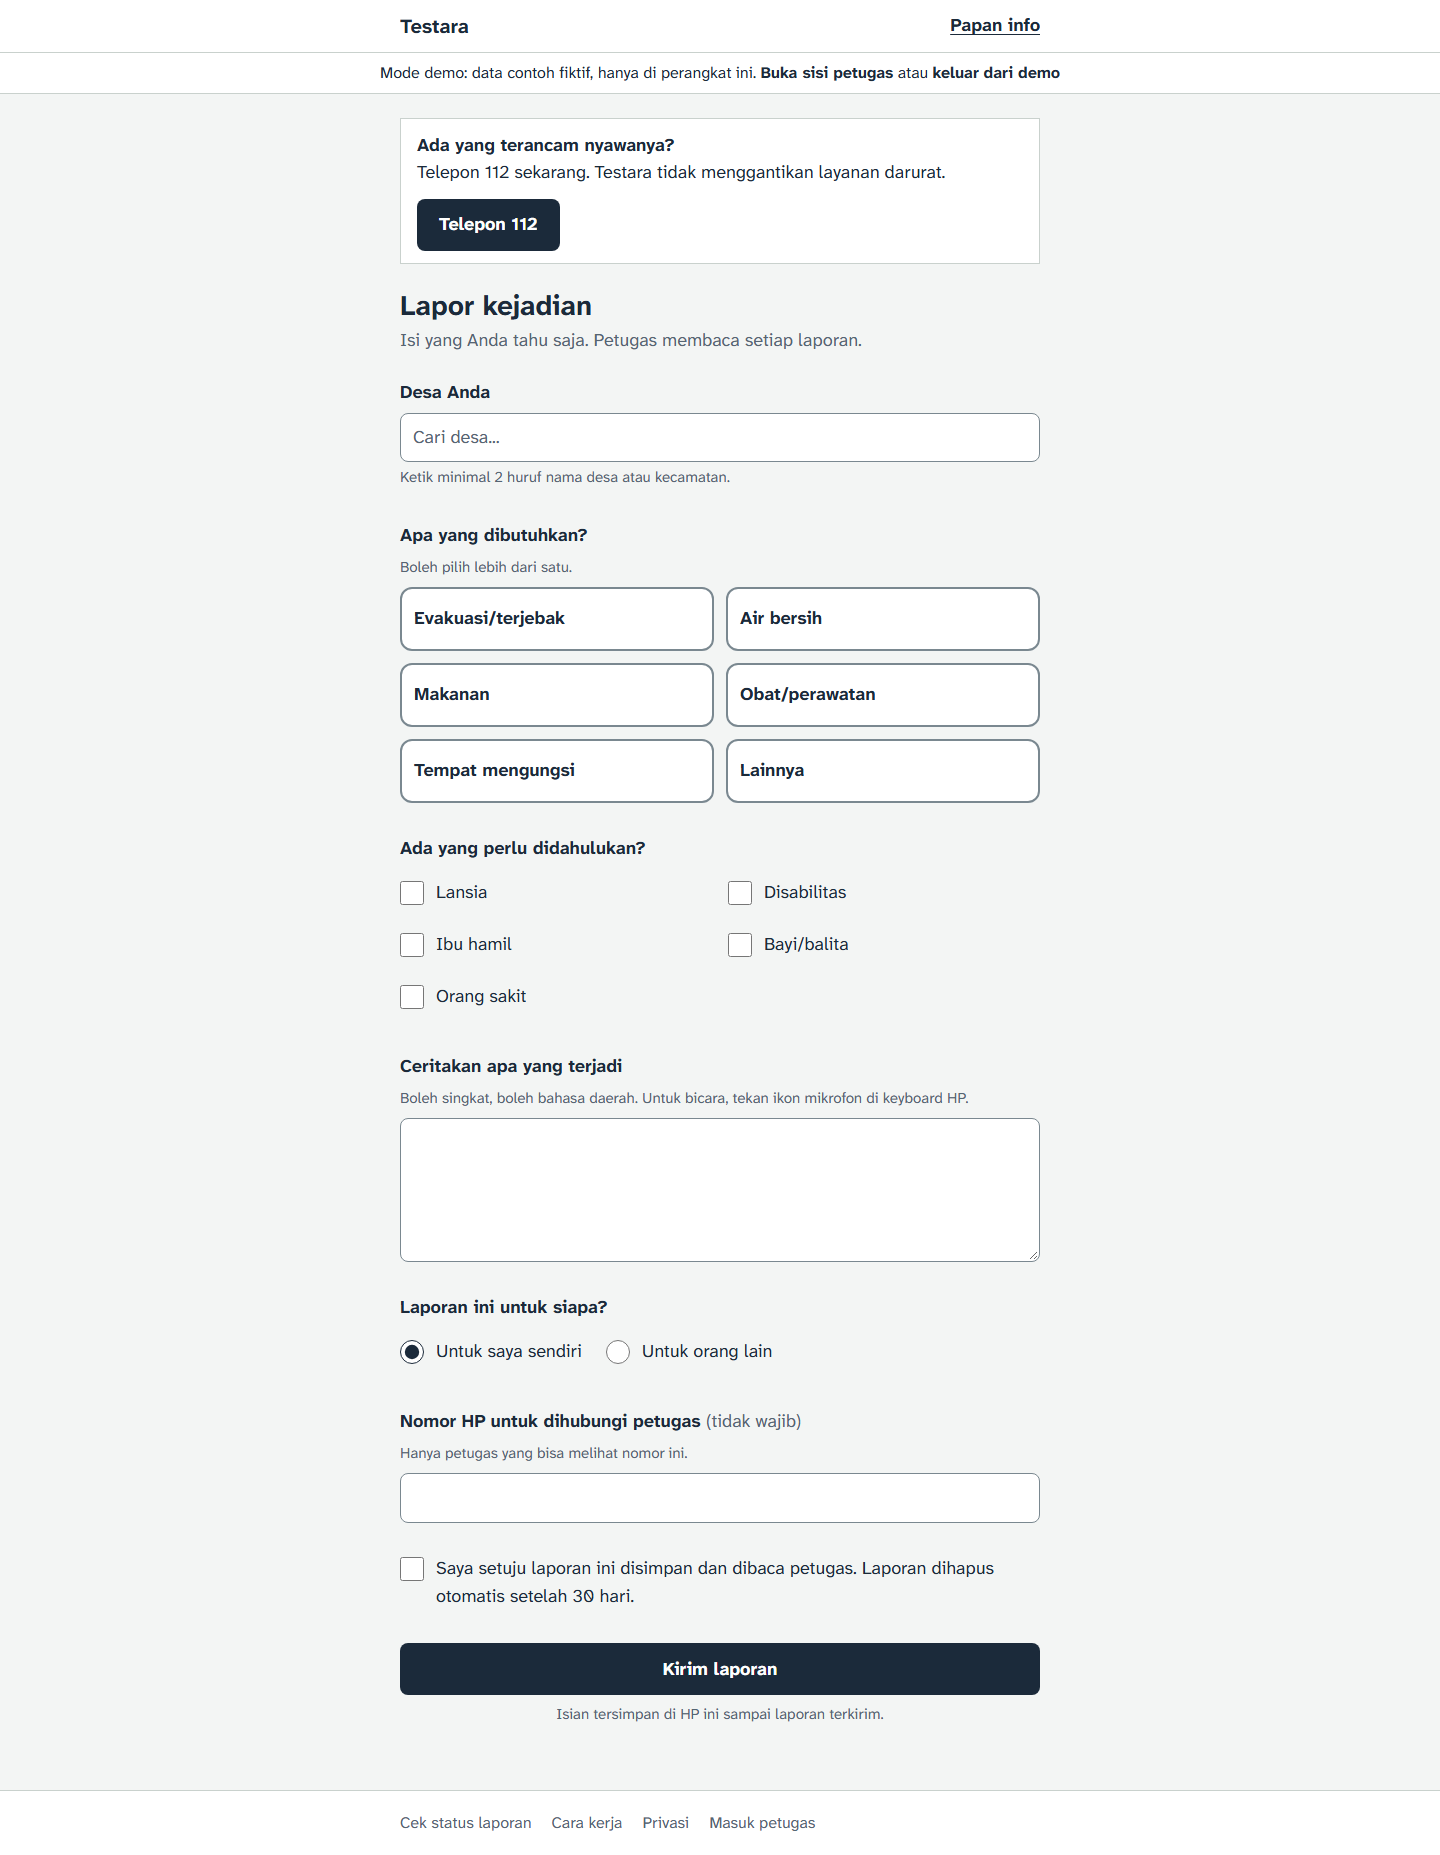
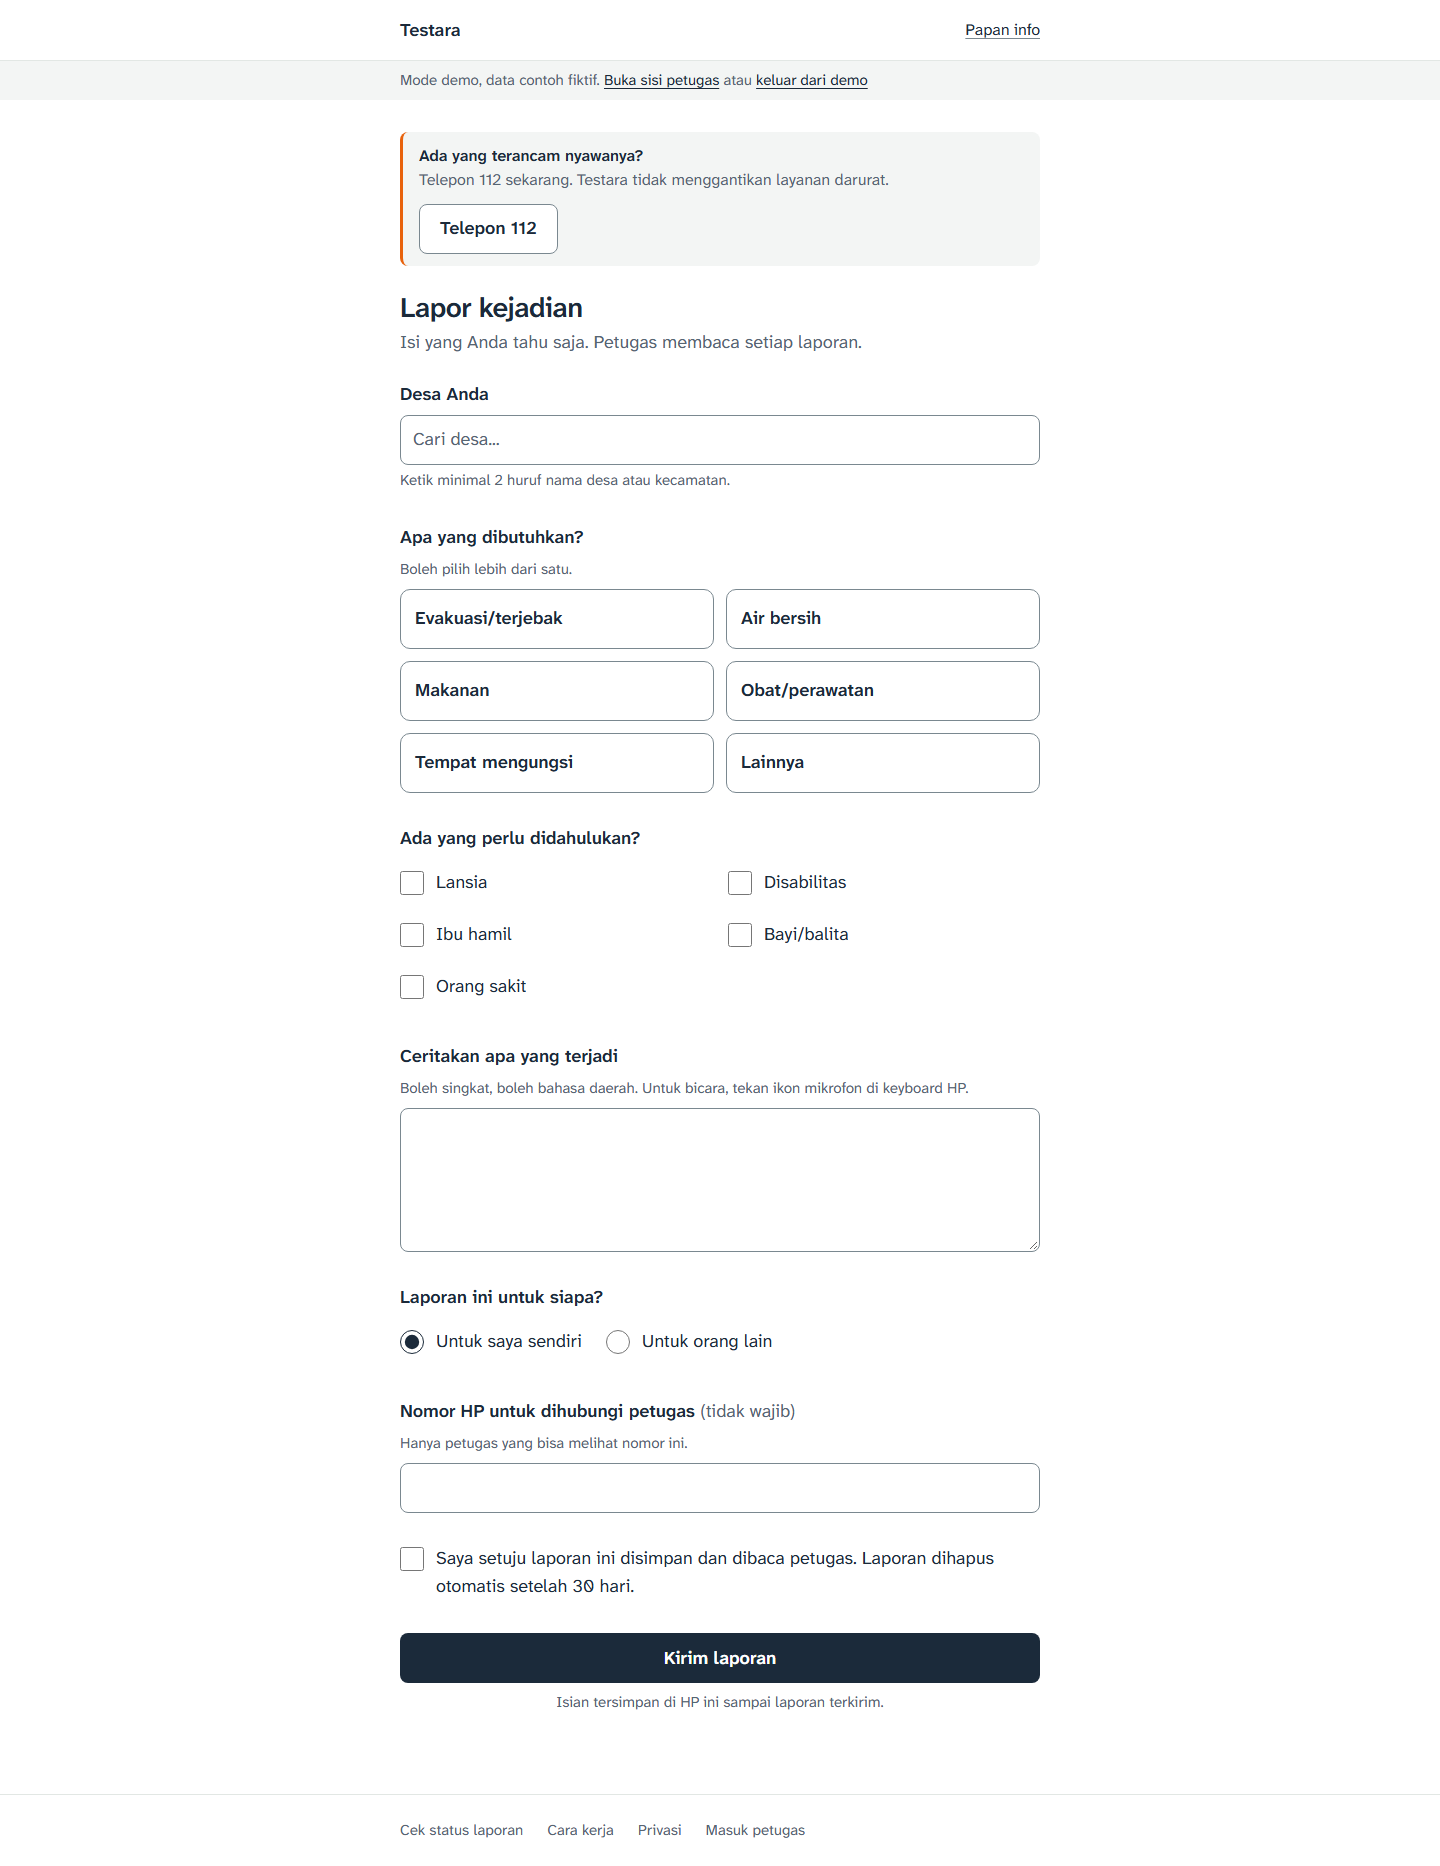
docs: catat revisi desain minimalis dan perbarui tangkapan layar

diff --git a/docs/DESIGN.md b/docs/DESIGN.md
@@ -218,3 +218,22 @@ Tangkapan layar 375 px dan 1440 px ada di `docs/screenshots/` (buat ulang dengan
 | Hiasan yang dibuang: garis putus-putus di panel mode demo beranda. Tidak membawa makna.                                             | Diganti garis biasa seperti panel lain.                                                                                                                                                            |
 
 Cek ulang terhadap daftar larangan: tidak ada gradien hiasan (sapuan stabilo memakai `background-size` satu warna sebagai animasi fungsional), tidak ada emoji/ikon AI, tidak ada label kapital berjarak, tidak ada panah di tombol, tidak ada kartu seragam berbayangan. Meja periksa dengan angka berbeda belum bisa difoto dalam keadaan sebenarnya karena angka hanya muncul dari ekstraksi AI, dan kunci AI belum tersedia.
+
+## Revisi: lebih bersih dan minimalis (16 November 2026)
+
+Permintaan: tampilan dibuat lebih bersih dan minimalis. Palet, tipografi, dan prinsip tetap; yang berubah adalah berat visual.
+
+| Sebelum                                                          | Sesudah                                                                                        | Alasan                                                      |
+| ---------------------------------------------------------------- | ---------------------------------------------------------------------------------------------- | ----------------------------------------------------------- |
+| Halaman abu `#F3F5F4` dengan panel putih berbingkai              | Halaman putih; `bg` dipakai hanya sebagai latar tipis blok pemberitahuan dan baris terpilih    | Lebih sedikit "kotak di dalam kotak"                        |
+| Garis `line` `#C9D1CD`                                           | `#E2E7E4` (hairline)                                                                           | Pemisah terasa, tidak menonjol                              |
+| Bingkai tombol, kolom, dan kartu kebutuhan 1,5 sampai 2 px       | 1 px `line-strong` (3,6:1, tetap lolos 3:1 untuk komponen UI)                                  | Lebih ringan                                                |
+| Judul dan label `700`                                            | `600`, judul `h1` dirapatkan sedikit                                                           | Hierarki lewat ukuran dan ruang, bukan ketebalan            |
+| Blok pemberitahuan: panel putih berbingkai + garis oranye        | Kelas `.notice`: latar tipis tanpa bingkai, garis oranye 3 px hanya jika perlu tindakan        | Oranye tetap khusus "perlu tindakan"                        |
+| Kalimat "bukan jaminan waktu kedatangan bantuan" bergaris oranye | Teks sekunder biasa                                                                            | Bukan hal yang perlu tindakan                               |
+| Tanda terima: bingkai tinta 2 px                                 | Blok latar tipis radius 16 px, kode tetap besar                                                | Elemen yang diingat tetap paling menonjol lewat ukuran kode |
+| Header petugas berlatar tinta                                    | Putih dengan garis bawah hairline                                                              | Alat kerja yang tenang; konten jadi fokus                   |
+| Tombol "quiet" berbingkai abu                                    | Tombol teks bergaris bawah, teks sejajar dengan isi lain                                       | Satu tombol utama per layar terlihat jelas                  |
+| Beranda: tombol demo dan tautan tersebar                         | Tombol utama, pemberitahuan darurat, dua tautan dalam daftar bergaris, lalu mode demo di bawah | Urutan baca sesuai prioritas                                |
+
+Target sentuh 48 px, kontras AA, dan fokus keyboard tidak berubah. Tangkapan layar di `docs/screenshots/` sudah dibuat ulang.
